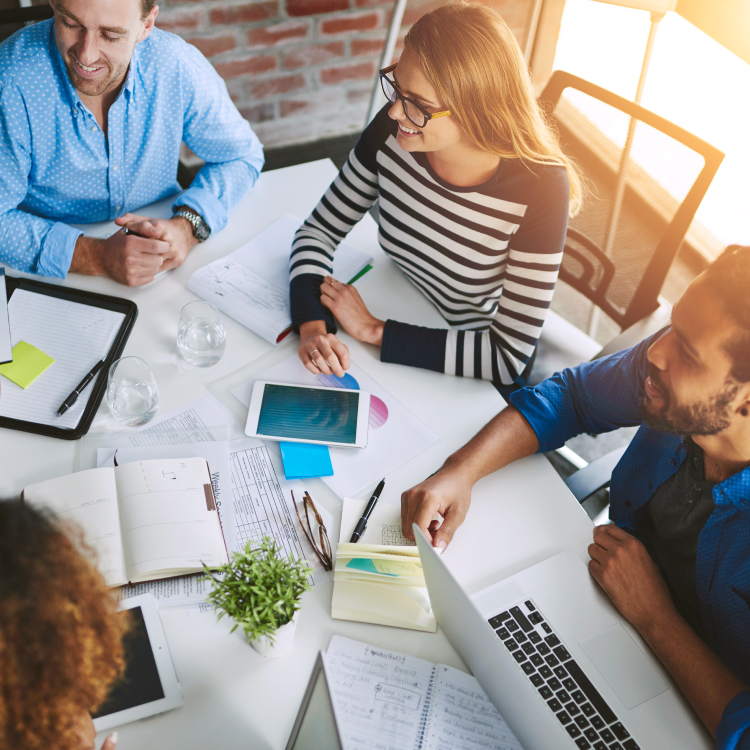
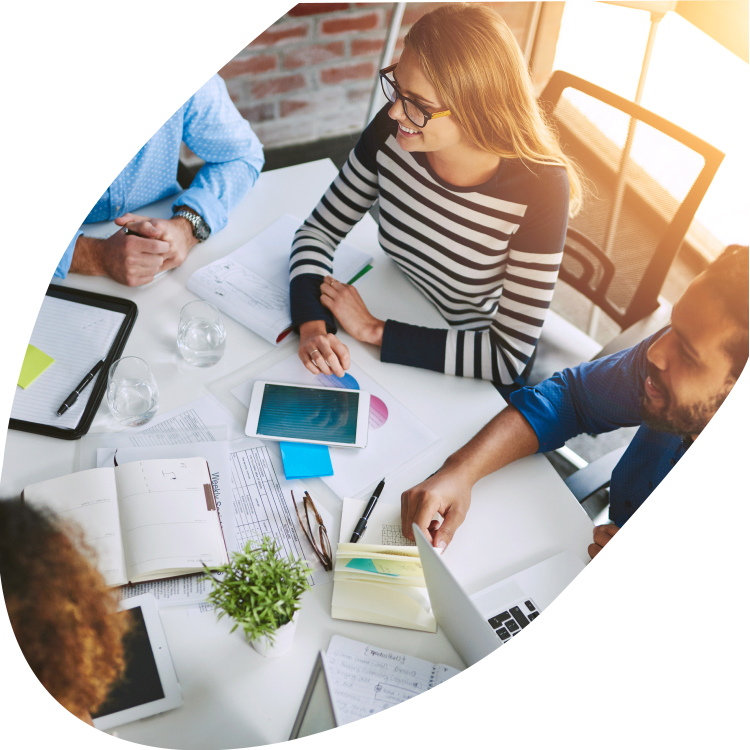
first commit

Changed region(s): [[0.3067, 0.46, 1.0, 1.0], [0.0, 0.0, 0.5827, 0.6133], [0.0, 0.7667, 0.2147, 1.0]]

diff --git a/index.html b/index.html
@@ -8,8 +8,13 @@
     <title>Corporate</title>
     <!-- bootstap css link -->
     <link href="https://cdn.jsdelivr.net/npm/bootstrap@5.1.3/dist/css/bootstrap.min.css" rel="stylesheet" integrity="sha384-1BmE4kWBq78iYhFldvKuhfTAU6auU8tT94WrHftjDbrCEXSU1oBoqyl2QvZ6jIW3" crossorigin="anonymous">
+    <script src="https://kit.fontawesome.com/1d52929b9a.js" crossorigin="anonymous"></script>
 </head>
+
+<!-- body -->
 <body>
+
+    <!-- header -->
     <header>
         <!-- nav-bar -->
         <nav>
@@ -41,7 +46,26 @@
             </div>
         </nav>
         <!-- nav-finish -->
+        <div class="d-flex">
+            <div class="half-width ps-container">
+                <h1 class="header-fs margin">Turn your ideas<br>into a <span class="text-primary">startup</span>.</h1>
+                <p class="fs-4 color-pera mb-4">Front's feature-rich designed demo pages<br>help you create the best possible product.</p>
+                <div class="d-flex">
+                    <button class="py-2 btn-style-header me-4">Get started</button>
+                    <a class="d-flex text-center align-items-center fs-a" href="#">
+                        Learn more
+                        <i class="fa-solid fa-chevron-right"></i>
+                    </a>
+                </div>
+            </div>
+            <div class="half-width">
+                <img class="img-width1" src="./image/img2.jpg" alt="">
+            </div>
+        </div>
     </header>
+    <!-- header-finish -->
+
+
     <main>
         <section>
 

diff --git a/style.css b/style.css
@@ -2,6 +2,7 @@
     margin: 0;
     padding: 0;
 }
+/* nav */
 .demos-style{
     padding: 15px 0;
     margin-right: 30px;
@@ -49,4 +50,44 @@
 .btn-style:hover{
     background-color: #2f6ad9;
     box-shadow: 0 0 7px 3.5px #cbddff;
+}
+/* nav-finish */
+.half-width{
+    width: 50%;
+}
+.div-width{
+    width: 100%;
+}
+.header-fs{
+    font-size: 3.5rem;
+}
+.ps-container{
+    padding-left: 119px;
+}
+.img-width1{
+    width: 100%;
+    height: 90%;
+}
+.margin{
+    margin-top: 69px;
+}
+.color-pera{
+    color: #67778b;
+}
+.btn-style-header{
+    padding: 0 37px;
+    background-color: #3d91ff;
+    border-radius: 5px;
+    color: white;
+    border: none;
+    outline: none;
+    font-size: 17px;
+}
+.btn-style-header:hover{
+    box-shadow: 0 0 6px 3px #3188fa;
+    background-color: #2f6ad9;
+}
+.fs-a{
+    font-size: 17px;
+    text-decoration: none;
 }
